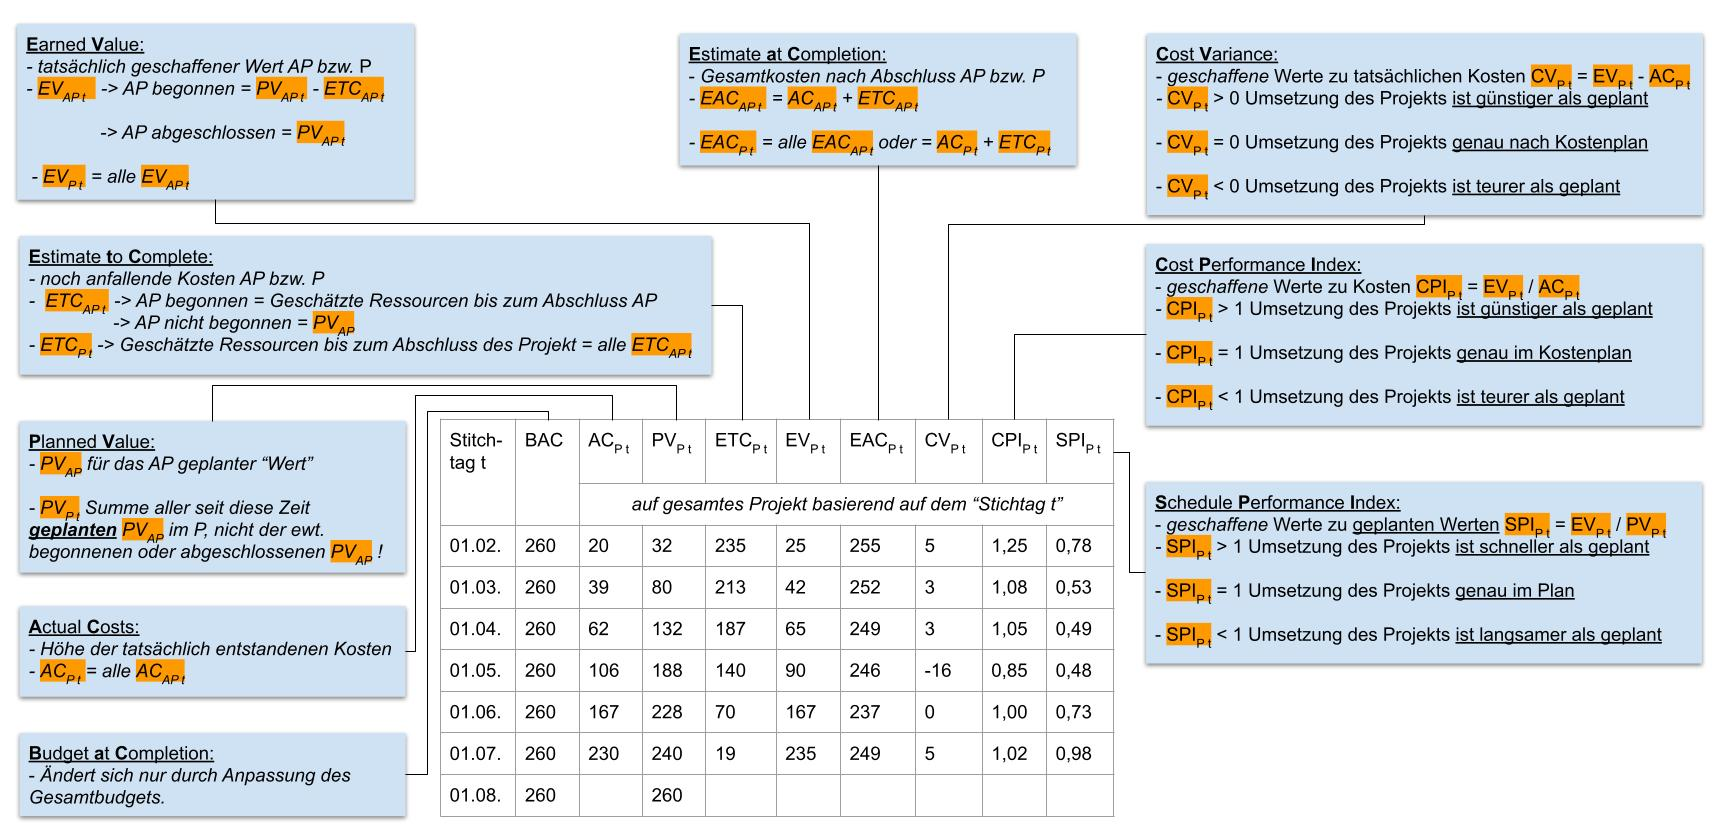
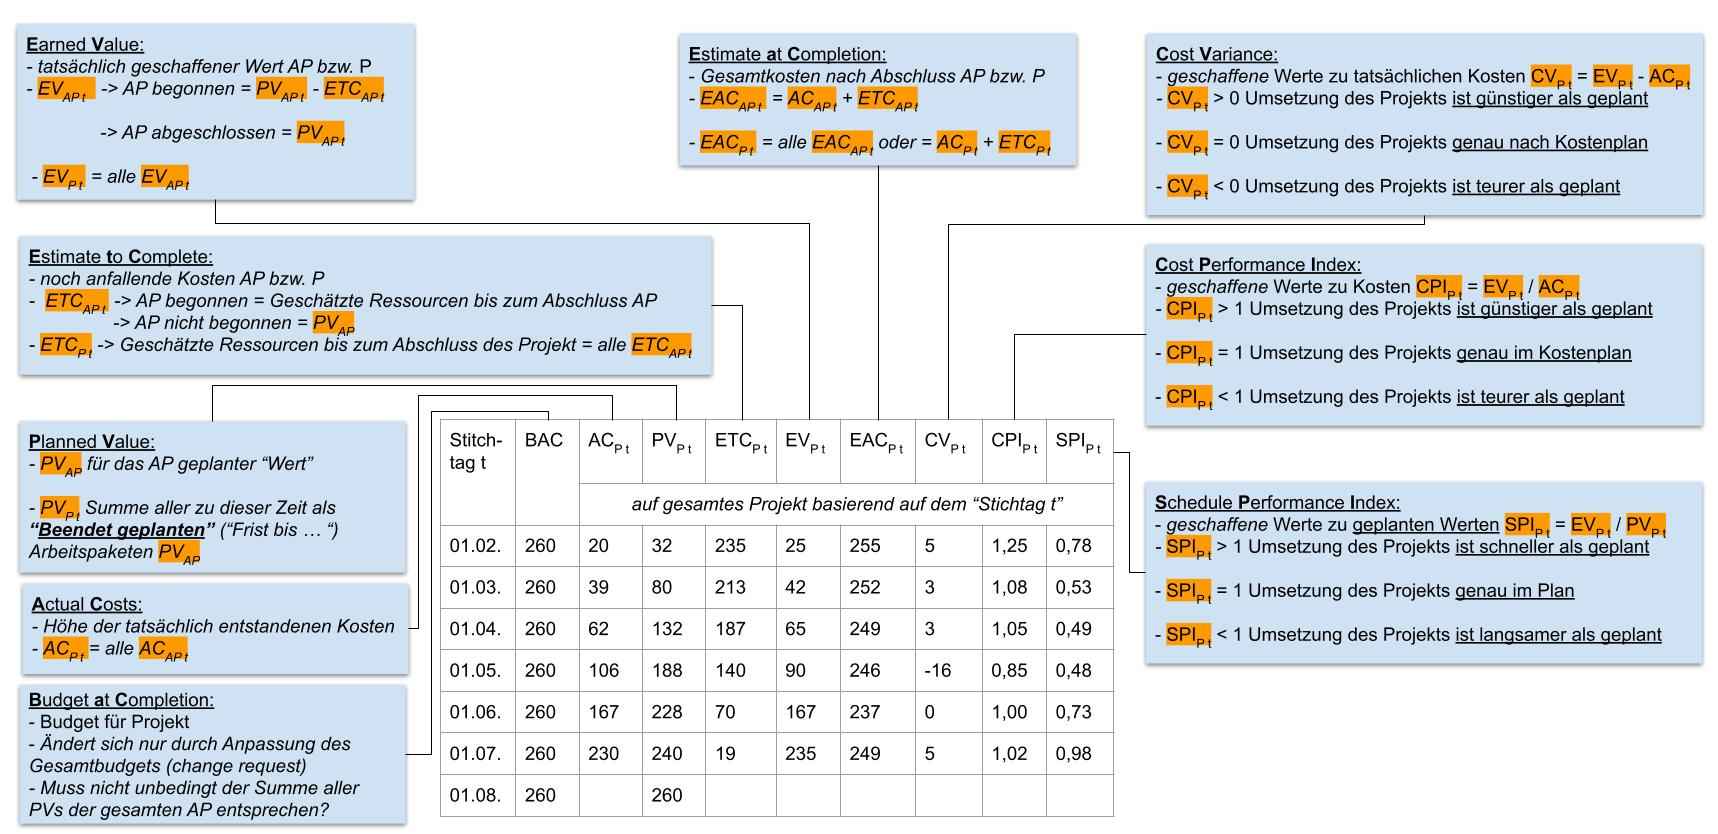
refactor: change containt L5

Changed region(s): [[0.0, 0.5923, 0.2468, 0.9976]]

diff --git a/docs/soft_ent/Modul/M06_IT_Projektmanagement/L06_pitpm.md b/docs/soft_ent/Modul/M06_IT_Projektmanagement/L06_pitpm.md
@@ -30,14 +30,15 @@ In der Durchführungsphase steuert das Projektmanagement die tagtägliche Arbeit
 ## 6.1 Struktur und Phasen in PITPM
 - Erweiterung und Anpassung des [PMBOK](M06_glossar.md#pmbok)-Guides.
 - Für kleine und mittlere Softwareprojekte geeignet (*4-12 Personenmonate, 3-12 Kalendermonate, Budget von 75-500 TEUR*)
-- Kontrollpunkt: Entscheidung über den Übergang in folgende Phasen und Kontrolle von wichtigen Ergebnissen.
+- Kontrollpunkt: Entscheidung über den Übergang in folgende Phasen und Kontrolle von wichtigen Ergebnissen.  
+
 *Phasen, Aktivitäten und Kontrollpunkte im PITPM*
 ![übersicht PITPM](./img/pitpm_übersicht.png)
 
 <details>
 <summary>**1. Phase:** *Vorbereitung*:</summary>
-- Ausarbeitung des Projektauftrags
-- Abstecken des Umfangs
+- Ausarbeitung des [Projektauftrags](M06_glossar.md#projektauftrag-project-brief)
+- Abstecken des Projektumfangs
 - Erste Risikoabschätzung und Anlage eines Risikoregisters
 - Entscheidung, ob Projekt beauftragt werden soll
 </details>
@@ -59,28 +60,42 @@ In der Durchführungsphase steuert das Projektmanagement die tagtägliche Arbeit
 
 <details>
 <summary>**3. Phase:** *Durchführung*:</summary>
+
+- diese Phase erfolgt in mehreren Iterationen
 - Planung der Iteration
-- Steuerung des Projekts
+- **Kontrollpunkt: "Planung der Iteration"**
+- Softwaresystem wird entwickelt & Projekt gesteuert
 </details>
 
-<details>
-<summary>**1. Phase:** **:</summary>
-- 
-</details>
+##### Kontrollpunkt: "**Bereitstellung zur Abnahme**" (*nach jeder Iteration*)
 
 <details>
-<summary>**1. Phase:** **:</summary>
-- 
+<summary>**4. Phase:** *Einführung*:</summary>
+
+- Planung der Einführung und Durchführung des Abnahmetests
+- **Kontrollpunkt: "Abnahme erteilt**" -> Überführung Systems in Betrieb
+- Anwender müssen ewt. qualifiziert werden
 </details>
+
+##### Kontrollpunkt: "**Produktionsstart**"
+<details>
+<summary>**5. Phase:** *Abschlussphase*:</summary>
+
+- Dokumentation von Erfahrungen
+- beenden von Verträgen
+- Schlussrechnung für Projekt
+</details>
+
+##### Kontrollpunkt: "**Projekt beendet**"
 
 
 ---
 ## 6.2 IT-Projekt "konfigurieren"
 - In der "Planungsphase" konfiguriert das Projektmanagement das Projektmanagement.
-- Die Projektmanagement-Pläne & Aktivitäten leiten sich aus den elf Wissensgebieten (*WG*) des PITPM ab.
+- Die Projektmanagement-Pläne & Aktivitäten leiten sich aus den 9 Wissensgebieten des PITPM ab.
 
 <details>
-<summary>**1. WG:** *Projektteam aufstellen*:</summary>
+<summary>**1.:** *Projektteam aufstellen*:</summary>
 - Auf Basis des Projektauftrags und der Vorbereitungsphase.
 - Abdeckung aller erforderlicher Kompetenten und Fähigkeiten.
 - Zu beachtende Kriterien der Zusammenstellung:
@@ -95,7 +110,7 @@ In der Durchführungsphase steuert das Projektmanagement die tagtägliche Arbeit
 </details>
 
 <details>
-<summary>**2. WG:** *Kick-off-Workshop durchführen*:</summary>
+<summary>**2.:** *Kick-off-Workshop durchführen*:</summary>
 - Organisation: Projektmanagement
 - Teilnehmer: alle aktuell bekannten Projektbeteiligten
 - Vorstellung von: allen Beteiligten, Ziel, Zeitraum und Meilensteine
@@ -105,7 +120,7 @@ In der Durchführungsphase steuert das Projektmanagement die tagtägliche Arbeit
 </details>
 
 <details>
-<summary>**3. WG:** *Projektmanagementplan entwickeln*:</summary>
+<summary>**3.:** *Projektmanagementplan entwickeln*:</summary>
 - Wie läuft das Projekt ab?
 - Anpassung des PITPM-Prozessmodelles auf spezifische Besonderheiten
 - Ziel: Initiales Durchdenken der Projektaufgaben durch den Projekteiter
@@ -119,14 +134,14 @@ In der Durchführungsphase steuert das Projektmanagement die tagtägliche Arbeit
 </details>
 
 <details>
-<summary>**4. WG:** *Risikoplanung konfigurieren*:</summary>
+<summary>**4.:** *Risikoplanung konfigurieren*:</summary>
 - Ziel: nicht die einzelnen Risiken identifizieren, sondern zu definieren, wie das Risikomanagement allgemein im Projekt durchgeführt werden soll
 - Vorgaben über Vorgehensweisen, Regeln und Eskalationspfade
 - Allgemeine Beschreibung, wie mit Risiken umzugehen ist und welche Konsequenzen möglich sind
 </details>
 
 <details>
-<summary>**5. WG:** *Beschaffung/Zulieferungen planen*:</summary>
+<summary>**5.:** *Beschaffung/Zulieferungen planen*:</summary>
 - Vorgaben und Rahmenbedingungen für Beschaffungen im Projekt (*Freigabeprozesse, Kostengrenzen, Standards und zu berücksichtigende DIN-Normen*)
 - Beispiele: Lieferanten mit Zertifikaten, bestimmte Hardware, zentrales Lizenzmanagement
 - Vertragsarten:
@@ -137,7 +152,7 @@ In der Durchführungsphase steuert das Projektmanagement die tagtägliche Arbeit
 </details>
 
 <details>
-<summary>**6. WG:** *Projekt-Controlling aufsetzen*:</summary>
+<summary>**6.:** *Projekt-Controlling aufsetzen*:</summary>
 - Aufwandsschätzung überprüfen bzw. Ersteinschätzung vornehmen
 - Kostenplangenehmigung bei überschrittenen Toleranzgrenzen
 - Erstellung Kostenkurve für jedes Arbeitspaket
@@ -145,13 +160,13 @@ In der Durchführungsphase steuert das Projektmanagement die tagtägliche Arbeit
 </details>
 
 <details>
-<summary>**7. WG:** *Softwareentwicklung konfigurieren*:</summary>
+<summary>**7.:** *Softwareentwicklung konfigurieren*:</summary>
 - Auswahl eines Softwareprozessmodelles
 - Bereitstellung der Werkzeuge zur Entwicklung und Betrieb der Software
 </details>
 
 <details>
-<summary>**8. WG:** *Projektkommunikation planen*:</summary>
+<summary>**8.:** *Projektkommunikation planen*:</summary>
 - Analyse der Stakeholder auf deren Bedürfnisse und Interessen
 - Auf Basis der Analyse: Wie stark werden einzelne Stakeholder eingebunden?
 - Typische Elemente: regelmäßige Meetings innerhalb des Teams, mit dem Auftraggeber oder dem Lenkungsausschuss
@@ -159,7 +174,7 @@ In der Durchführungsphase steuert das Projektmanagement die tagtägliche Arbeit
 </details>
 
 <details>
-<summary>**9. WG:** *Anforderungsmanagement konfigurieren*:</summary>
+<summary>**9.:** *Anforderungsmanagement konfigurieren*:</summary>
 - Festlegen der Organisation des fachlichen Requirements Engineering
 - Wie wird mit Änderungsanfragen (Change Requests) verfahren?
 - Erfolgt in Abstimmung mit verantwortlichem Requirements Engineer
@@ -168,14 +183,14 @@ In der Durchführungsphase steuert das Projektmanagement die tagtägliche Arbeit
 </details>
 
 <details>
-<summary>**10. WG:** *Change-Request-Prozess planen*:</summary>
+<summary>**10.:** *Change-Request-Prozess planen*:</summary>
 - Behandlung von Änderungen und Anpassungswünschen seitens des Kunden im PM-Plan festgelegt
 - Berücksichtigung des Kostenrahmens, da zusätzliche Umsetzungsaufwände
 - Change-Request-Prozess: Definition von Entscheidungswege für späte Anforderungen
 </details>
 
 <details>
-<summary>**11. WG:** *Qualitätsplanung erstellen*:</summary>
+<summary>**11.:** *Qualitätsplanung erstellen*:</summary>
 
 ##### Konstruktives Qualitätsmanagement:
 - Definition von Qualitätseigenschaften **a priori** (*vor der Erstellung*)

diff --git a/docs/soft_ent/Modul/M06_IT_Projektmanagement/L03_priorisierung_aufwandsschätzung_projektcontrollling.md b/docs/soft_ent/Modul/M06_IT_Projektmanagement/L03_priorisierung_aufwandsschätzung_projektcontrollling.md
@@ -231,7 +231,7 @@ zeigt den echten Fortschritt
 |---|---|---|
 |**Budget at Completion**<br/>(*Budget bei Projektende*) |**BAC** |- Geplantes bzw. geschätztes Gesamtbudget des Projekts. Diese Zahl ändert sich über die Projektlaufzeit nur durch Anpassungen des Gesamtbudgets, beispielsweise nach Change Requests der Auftraggebenden.<br/>- Die Einheit von `BAC` ist beispielsweise Geld in EUR oder Zeit in Personentagen. |
 |**Planned Value**<br/>(*geplanter Wert*) |**PV<sub>AP</sub>** |- Geplante Aufwände für das gesamte Arbeitspaket `AP`.<br/>- Dieser Wert ergibt sich durch die im Projektplan eingeplanten Ressourcen wie Personal- oder Hardwarekosten, die für das Arbeitspaket eingeplant werden. <br/>- Ist ein Arbeitspaket beendet, so wurden im Projekt, Werte im Umfang der für ein Arbeitspaket ursprünglich geplanten Kosten geschaffen.|
-||**PV<sub>P t</sub>** |- Geplante Aufwände für ein Projekt `P` zum Zeitpunkt `t`. <br/>- Ergibt sich aus der Summe aller bis zum Zeitpunkt `t` ~erarbeiteten~ **geplanten** (*NICHT erarbeiteten Werten!!!*) Werte `PV`<sub>`AP t`</sub> in einem Projekt `P`.|
+||**PV<sub>P t</sub>** |- Geplante Aufwände für ein Projekt `P` zum Zeitpunkt `t`. <br/>- Ergibt sich aus der Summe aller bis zum Zeitpunkt `t` ~erarbeiteten~ als **"Beendet geplanten"** (*Frist bis ...*) Arbeitspakete `PV`<sub>`AP t`</sub> in einem Projekt `P`.|
 |**Actual Costs**<br/>(*tatsächliche Kosten*) |**AC<sub>AP t</sub>** |- Höhe der tatsächlich bisher entstandenen Kosten in einem Arbeitspaket `AP` zum Zeitpunkt `t`. |
 ||**AC<sub>P t</sub>** |- Höhe der tatsächlich entstandenen Kosten im Projekt `P` zum Zeitpunkt `t`.<br/>- Ergibt sich aus der Summe aller `AC`<sub>`AP t`</sub> in einem Projekt `P`. |
 |**Estimate to Complete**<br/> (*geschätzte Kosten zum Abschluss*) |**ETC<sub>AP t</sub>** |- Am Zeitpunkt `t` geschätzte noch anfallende Kosten zur Fertigstellung des Arbeitspakets `AP`.<br/>- Wurde das Arbeitspaket `AP` bereits begonnen, d.h. ist `AC`<sub>`AP t`</sub> > 0, wird `ETC`<sub>`AP t`</sub> zum Zeitpunkt `t` neu geschätzt.<br/>- Wurde das Arbeitspaket `AP` noch nicht begonnen, gilt `ETC`<sub>`AP t`</sub> = `PV`<sub>`AP`</sub>. |
@@ -253,7 +253,7 @@ Der "**Scheduled Performance Index**" drückt aus wie Gut das Projekt in der Zei
 
 ![eva_beispiel](./img/eva_beispiel.jpg)
 - **AC<sub>P t</sub>** : `20` = *alle* AC<sub>abgeschlossene AP</sub> + *alle* AC<sub>begonnene AP</sub> = 15 + 5
-- **PV<sub>P t</sub>** : `32` = *alle* PV<sub>geplant vor Stichtag t AP</sub> = 20 + 12 (*nur AP **geplant** vor Stichtag!*)
+- **PV<sub>P t</sub>** : `32` = *alle* PV<sub>nach "Plan Beendet" zum Stichtag t AP</sub> = 20 + 12 (*nur AP **die nach Plan beendet** sein sollten*)
 - **ETC<sub>P t</sub>** : `235` = *alle* PV<sub>nicht begonnene AP</sub> + *alle* ETC<sub>begonnene AP</sub> = 228 + 7  
 (*_alle_ PV<sub>nicht begonnene AP</sub> = BAC - *alle* PV<sub>abgeschlossene AP</sub> - *alle* PV<sub>begonnene AP</sub>  
 = 260 - 20 - 12 für dieses Beispiel angenommen*)

diff --git a/docs/soft_ent/Modul/M06_IT_Projektmanagement/L05_organisation_struktur_it_projekte.md b/docs/soft_ent/Modul/M06_IT_Projektmanagement/L05_organisation_struktur_it_projekte.md
@@ -56,8 +56,8 @@ Ist klein (*max. 10 Personen*), interdisziplinär und selbstorganisiert — ohne
 |Rolle	            |Verantwortung |
 |---|---|
 |**Developer**<br/>*(im sinne von Produkt Entwickler & nicht nur Softwareentwickler)* |Konstruktive Arbeit am Produkt (*Konzeption, Entwicklung, Qualitätssicherung, Inbetriebnahme*) |
-|**Product Owner**	|- Maximiert den Produktwert <br/>- erstellt, pflegt und priorisiert die Backlock-Elementen im Product Backlog <br/>- Entwicklung und Kommunikation des Produktziels <br/>- Sicherstellung von Transparenz und Verständlichkeit des Backlogs|
-|**Scrum Master**	|Setzt Scrum in Theorie & Praxis um; coacht das Team und beseitigt Hindernisse |
+|**Product Owner**	|- verantwortlich das Team Produktwert maximiert <br/>- erstellt, pflegt und priorisiert die Backlock-Elementen im Product Backlog <br/>- Entwicklung und Kommunikation des Produktziels <br/>- Sicherstellung von Transparenz und Verständlichkeit des Backlogs|
+|**Scrum Master**	|Setzt Scrum in Theorie & Praxis um; coacht das Team (*Effizienz &uarr;*) und beseitigt Hindernisse |
 
 #### Events (*innerhalb eines Sprints*)
 Ein Sprint (*Zyklus*) dauert maximal einen Monat und wird ohne Pause vom nächsten gefolgt.
@@ -113,12 +113,14 @@ Ein Sprint (*Zyklus*) dauert maximal einen Monat und wird ohne Pause vom nächst
     ##### Projektauftraggeber (*Executive*):
     - Hauptverantwortlich für das Projekt
     - geben Rahmenbedingungen vor (*Kosten, Zeit, Qualität, Kundenerwartung*)
-    ##### Hauptnutzer (*Senior User*):
-    - verantwortlich für Systemspezifikation, Qualität und Abnahmetest
-    - Priorisierung der Anforderungen & Informationsbeschaffung
-    ##### Hauptlieferant (*Senior Supplier*):
-    - Erstellung des Systems nach Kundenanforderung
-    - überprüft Anforderungen der Hauptnutzer auf Umsetzbarkeit und Risiken
+    ##### Hauptnutzer (*Senior User, vertreten die Seite der Nutzer*):
+    - verantwortlich für Systemspezifikation, Systemqualität und Abnahmetest
+    - Priorisierung der Anforderungen & beschaffen Informationen von den Nutzern
+    - fokussieren Bedürfnisse der Nutzer
+    ##### Hauptlieferant (*Senior Supplier, liefern das "Produkt"*):
+    - verantwortlich für, Erstellung des Systems nach Kundenanforderung & vorgegebenen Rahmenbedingungen
+    - überprüft Anforderungen der Hauptnutzer auf Umsetzbarkeit
+    - erkennen und melden von Risiken
 
 #### 3. Ebene: Projektleitung PL (*Project Manager*):
 - Für Leitungsaufgaben des Tagesgeschäfts verantwortlich

diff --git a/docs/soft_ent/Modul/M06_IT_Projektmanagement/M06_glossar.md b/docs/soft_ent/Modul/M06_IT_Projektmanagement/M06_glossar.md
@@ -11,6 +11,16 @@ title: M06 Glossar
 >Ist eine zeitlich befristete, relativ innovative und risikobehaftete Aufgabe von erheblicher Komplexität, die aufgrund ihrer Schwierigkeit und Bedeutung meist ein gesondertes Projektmanagement erfordert.  
 
 ---
+### Chief Information Officer (*CIO*)
+>Auf Deutsch in etwa „IT-Leitung" oder „Vorstand für Informationstechnologie".
+
+Der CIO ist die ranghöchste Führungskraft für den IT-Bereich in einem Unternehmen und verantwortet:
+- die IT-Strategie des Unternehmens
+- die IT-Infrastruktur und IT-Anwendungslandschaft
+- die digitale Transformation
+- die Abstimmung zwischen IT und Geschäftszielen
+
+---
 ### Änderungsprozess (*auch "Change Prozess" oder "Change"*)
 >Steht für die Zusammenfassung aller Änderungen und Abpassungen an der **IT-Infrastruktur** und der **Organisationsstruktur** eines Unternehmens im Zusammenhang mit der Einführung oder Änderung von IT-Systemen.  
 - **IT-Infrastruktur**: *Hardware, IT-Services und Lizensen sowie Schnittstellen*

diff --git a/docs/soft_ent/Modul/M06_IT_Projektmanagement/L02_planungstechniken.md b/docs/soft_ent/Modul/M06_IT_Projektmanagement/L02_planungstechniken.md
@@ -106,6 +106,7 @@ Eine Arbeitspakete, bei der die Pufferzeit gleich null ist. Jede Verzögerung hi
 
 - **Kritischer Pfad**:  
 Die Abfolge aller kritischen Aktivitäten – also die längste Kette von Aufgaben ohne jeglichen Puffer, die vom Projektstart bis zum -ende reicht
+(*Es gibt keine Aktivitäten mit Puffer die eine Verzögerung ausgleichen können!*)
 
 ### Die 4 Beziehungstypen zwischen Aktivitäten (*Arbeitspaketen*)
 **Hinweis**: Aktivität = operative Begriff für Arbeitsp. im Zeitlichen Ablauf (*Gantt*), Arbeitspaket = Planungsbegriff aus dem Projektstrukturplan. Beide beschreiben das selbe Konzept nur aus leicht unterschiedlichen Perspektiven. 
